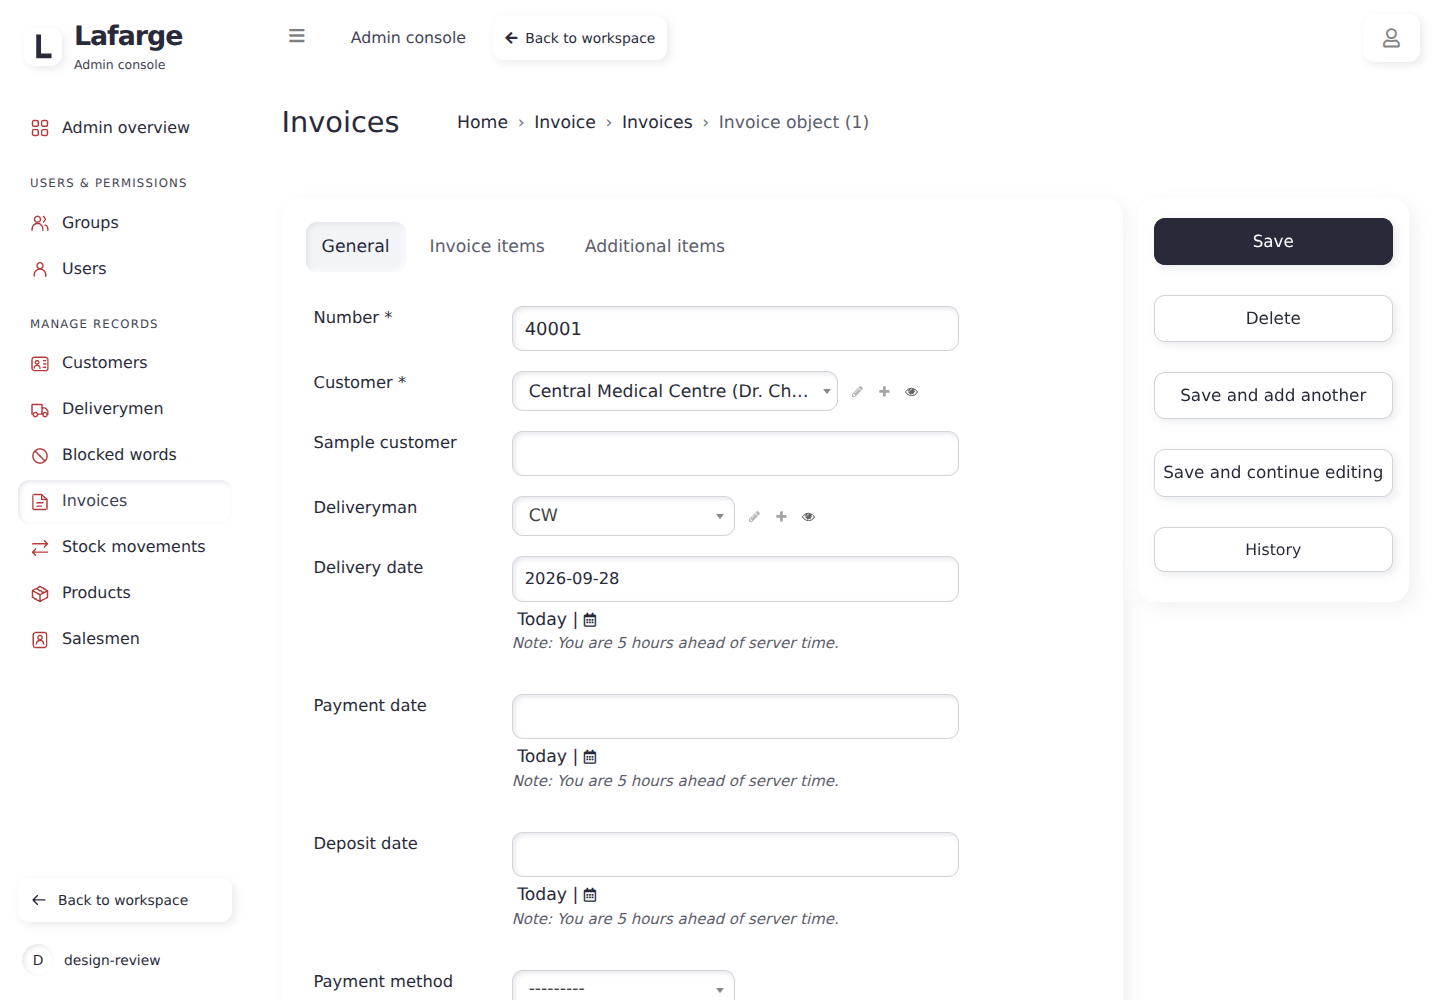
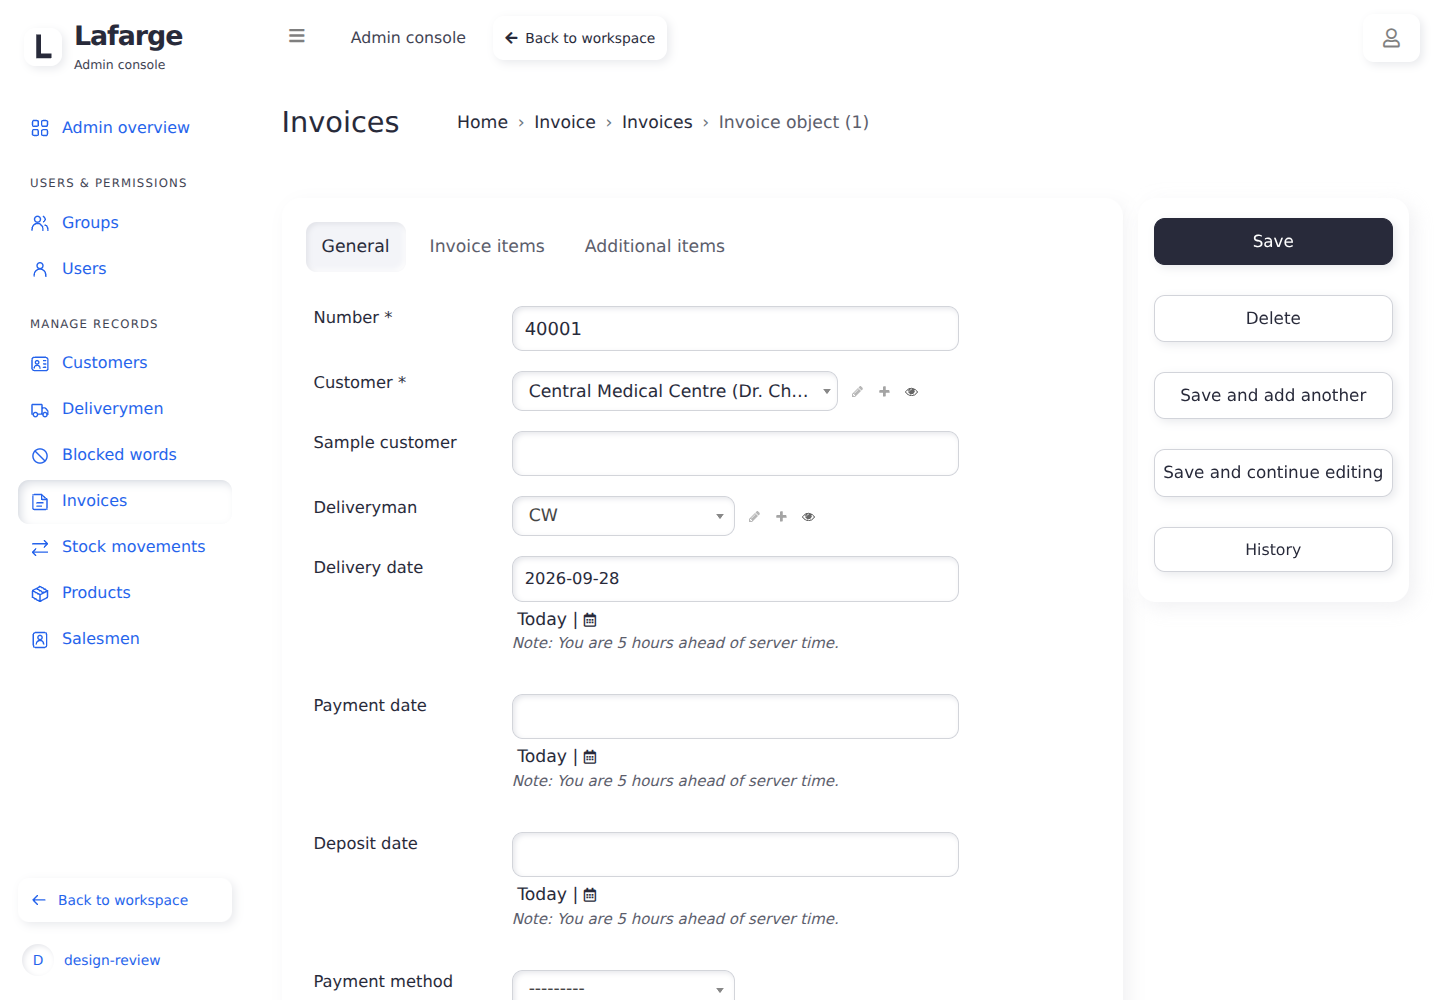
Use blue Admin navigation and pressed white sidebar items

diff --git a/lafarge/static/css/admin_overrides.css b/lafarge/static/css/admin_overrides.css
@@ -3,9 +3,8 @@
 
 :root {
     --erp-admin-accent: #404252;
-    --erp-admin-icon: #b43b3b;
+    --erp-admin-nav: #2563eb;
     --erp-admin-sidebar: var(--erp-surface);
-    --erp-admin-selected: var(--erp-nav-selected);
     --erp-admin-raised: var(--erp-raised);
     --erp-admin-inset: var(--erp-inset);
 }
@@ -30,12 +29,6 @@ body {
 }
 :is(.main-sidebar, .app-sidebar) :is(.nav-sidebar, .sidebar-menu) .nav-link {
     border-radius: var(--erp-control-radius);
-}
-:is(.main-sidebar, .app-sidebar)
-    :is(.nav-sidebar, .sidebar-menu)
-    .nav-link.active {
-    background: var(--erp-admin-selected) !important;
-    color: var(--erp-admin-accent) !important;
 }
 :is(.main-header, .app-header) {
     border-bottom: 0;
@@ -241,15 +234,21 @@ body {
 :root :is(.main-sidebar, .app-sidebar) .nav-header {
     color: var(--erp-admin-accent) !important;
 }
-:is(.main-sidebar, .app-sidebar) :is(.nav-sidebar, .sidebar-menu) .nav-icon {
-    color: var(--erp-admin-icon);
+:root :is(.main-sidebar, .app-sidebar)
+    :is(.nav-sidebar, .sidebar-menu)
+    :is(.nav-link, .nav-link:hover, .nav-link:focus, .nav-link:active, .nav-link.active) {
+    background: var(--erp-admin-sidebar) !important;
+    color: var(--erp-admin-nav) !important;
 }
 :root :is(.main-sidebar, .app-sidebar)
     :is(.nav-sidebar, .sidebar-menu)
-    .nav-link.active {
-    background: var(--erp-admin-selected) !important;
-    color: var(--erp-admin-accent) !important;
-    box-shadow: var(--erp-admin-inset);
+    .nav-link :is(.nav-icon, p, .right) {
+    color: inherit !important;
+}
+:root :is(.main-sidebar, .app-sidebar)
+    :is(.nav-sidebar, .sidebar-menu)
+    :is(.nav-link.active, .nav-link:active) {
+    box-shadow: var(--erp-nav-inset) !important;
 }
 :is(.content-header, .app-content-header) h1 {
     font-size: 1.8rem;
@@ -340,16 +339,16 @@ body { font-size: 0.9rem; }
     margin: 0;
     padding: 10px 12px;
     background: var(--erp-admin-sidebar);
-    color: var(--erp-primary) !important;
+    color: var(--erp-admin-nav) !important;
     box-shadow: var(--erp-admin-raised);
     border-radius: var(--erp-control-radius);
     font-size: 0.72rem;
     font-weight: 500;
-    transition: background-color 140ms ease, box-shadow 140ms ease;
+    transition: box-shadow 140ms ease;
 }
 .admin-workspace-return .nav-icon { width: 18px; height: 18px; flex: 0 0 18px; }
-.admin-workspace-return:hover { background: var(--erp-subtle); }
-.admin-workspace-return:active { box-shadow: var(--erp-admin-inset); }
+.admin-workspace-return:hover { background: var(--erp-admin-sidebar); }
+.admin-workspace-return:active { box-shadow: var(--erp-nav-inset); }
 .admin-user-link {
     display: flex;
     align-items: center;
@@ -358,11 +357,12 @@ body { font-size: 0.9rem; }
     margin-top: 16px;
     padding: 6px 4px;
     border-radius: var(--erp-control-radius);
-    color: var(--erp-primary) !important;
+    color: var(--erp-admin-nav) !important;
     font-size: 0.72rem;
     font-weight: 500;
 }
-a.admin-user-link:hover { background: var(--erp-subtle); }
+a.admin-user-link:hover { background: var(--erp-admin-sidebar); box-shadow: var(--erp-admin-raised); }
+a.admin-user-link:active { box-shadow: var(--erp-nav-inset); }
 .admin-user-avatar {
     display: grid;
     place-items: center;
@@ -490,7 +490,7 @@ a.admin-user-link:hover { background: var(--erp-subtle); }
     font-size: 0.83rem;
     font-weight: 500;
     line-height: 1.4;
-    transition: background-color 140ms ease, box-shadow 140ms ease;
+    transition: box-shadow 140ms ease;
 }
 :is(.main-sidebar, .app-sidebar) :is(.nav-sidebar, .sidebar-menu) .nav-link.active { font-weight: 500; }
 :is(.main-sidebar, .app-sidebar) :is(.nav-sidebar, .sidebar-menu) .nav-icon {
@@ -514,12 +514,7 @@ a.admin-user-link:hover { background: var(--erp-subtle); }
     font-size: 0.6rem;
 }
 :is(.main-sidebar, .app-sidebar) .nav-link:not(.active):hover {
-    background: var(--erp-primary-soft);
     box-shadow: var(--erp-admin-raised);
-}
-:is(.main-sidebar, .app-sidebar) .nav-link:not(.active):active {
-    background: var(--erp-admin-selected);
-    box-shadow: var(--erp-admin-inset);
 }
 @media (prefers-reduced-motion: reduce) {
     #jazzy-sidebar :is(.nav-link, .admin-workspace-return) { transition: none; }

diff --git a/lafarge/static/css/style.css b/lafarge/static/css/style.css
@@ -107,10 +107,12 @@
     margin: 2px 0;
     padding: 9px 12px;
     border-radius: var(--erp-control-radius);
+    background: var(--erp-sidebar);
     color: var(--erp-sidebar-text);
     font-size: 0.83rem;
     text-decoration: none;
     font-weight: 500;
+    transition: box-shadow 140ms ease;
 }
 .nav-item i {
     width: 19px;
@@ -119,24 +121,24 @@
 }
 .sidebar-nav .nav-item:hover,
 .mobile-menu .nav-item:hover {
-    background: var(--erp-subtle);
-    color: var(--erp-primary);
+    color: var(--erp-sidebar-text);
+    box-shadow: var(--erp-raised);
 }
 .sidebar-nav .nav-item.active,
-.mobile-menu .nav-item.active {
-    background: var(--erp-nav-selected);
-    color: var(--erp-primary);
-    font-weight: 650;
-    box-shadow: var(--erp-inset);
+.mobile-menu .nav-item.active,
+.sidebar-nav .nav-item:active,
+.mobile-menu .nav-item:active {
+    color: var(--erp-sidebar-text);
+    box-shadow: var(--erp-nav-inset);
 }
 .sidebar-nav .nav-area-switch,
 .mobile-menu .nav-area-switch {
     background: var(--erp-surface);
-    color: var(--erp-primary);
     box-shadow: var(--erp-raised);
 }
-.nav-area-switch:active {
-    box-shadow: var(--erp-inset);
+.sidebar-nav .nav-area-switch:active,
+.mobile-menu .nav-area-switch:active {
+    box-shadow: var(--erp-nav-inset);
 }
 .sidebar-footer {
     display: flex;
@@ -1062,6 +1064,8 @@
         align-items: center;
         gap: 6px;
         padding: 5px;
+        background: var(--erp-sidebar);
+        border-radius: var(--erp-control-radius);
         color: var(--erp-primary);
         font-size: 0.75rem;
         cursor: pointer;
@@ -1074,8 +1078,7 @@
         font-size: 1.3rem;
     }
     .mobile-menu[open] summary {
-        background: var(--erp-primary-soft);
-        border-radius: 5px;
+        box-shadow: var(--erp-nav-inset);
     }
     .mobile-menu nav {
         position: absolute;

diff --git a/lafarge/static/css/design_tokens.css b/lafarge/static/css/design_tokens.css
@@ -23,11 +23,11 @@
     --erp-info: #404252;
     --erp-sidebar: #ffffff;
     --erp-sidebar-text: #5b5d6b;
-    --erp-nav-selected: #ffffff;
     --erp-radius: 18px;
     --erp-control-radius: 11px;
     --erp-shadow: 6px 6px 18px rgba(210, 212, 218, 0.32), -6px -6px 18px #ffffff;
     --erp-raised: 3px 3px 9px rgba(210, 212, 218, 0.48), -3px -3px 9px #ffffff;
     --erp-inset: inset 2px 2px 5px rgba(210, 212, 218, 0.55), inset -2px -2px 5px #ffffff;
+    --erp-nav-inset: inset 4px 4px 8px rgba(184, 190, 202, 0.42), inset -4px -4px 8px #ffffff, inset 1px 1px 2px rgba(184, 190, 202, 0.2);
     --erp-focus: 0 0 0 3px rgba(64, 66, 82, 0.16);
 }
